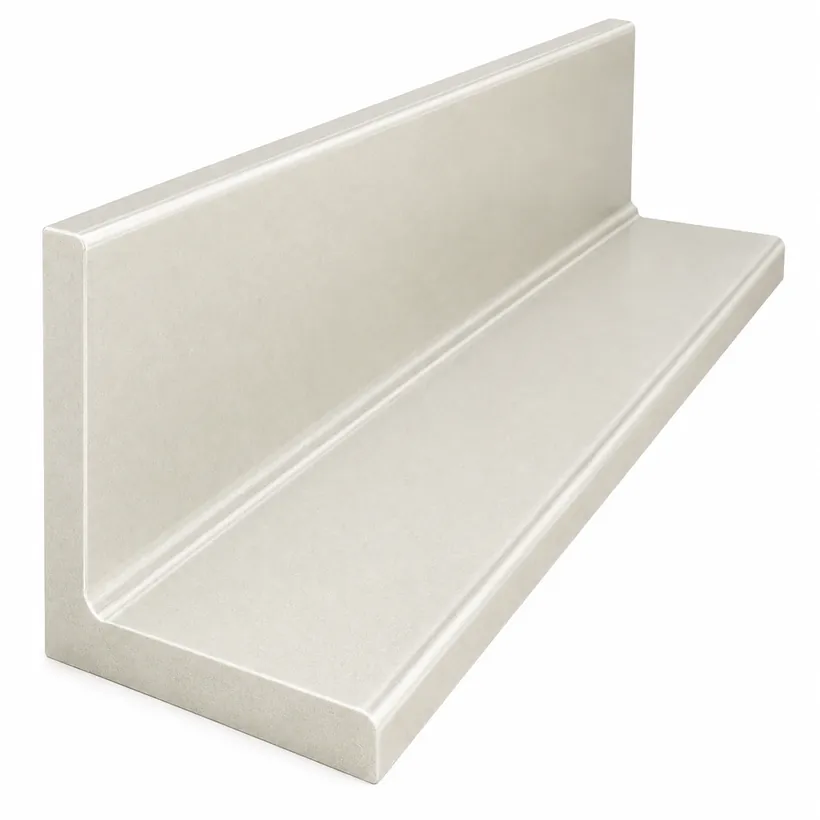
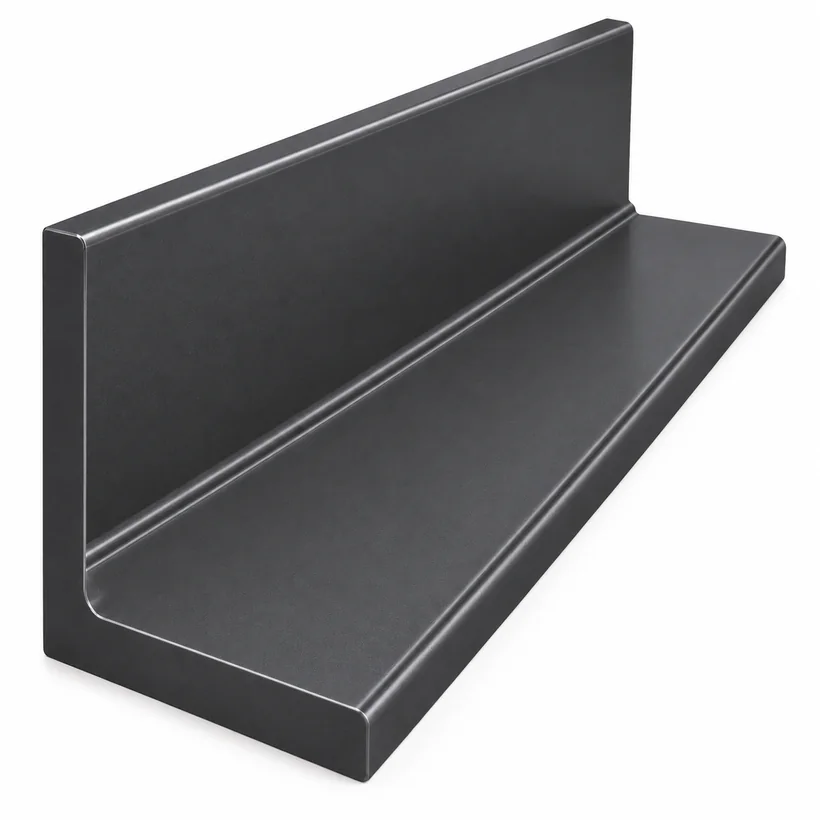
L-Angles: replace the white photos with dark ones (#96)
Swap the two white/light L-angle gallery images (single section and the
four-in-a-row "range of sizes") for the newly uploaded dark FRP L-angle
photos, matching the rest of the range. Update photo-2's "light finish"
caption to "L-angle section".

Claude-Session: https://claude.ai/code/session_01WRhyrTTY8cRs8Gze2oyhCj

diff --git a/index.html b/index.html
@@ -1531,7 +1531,7 @@
           <div class="sub">Photos</div>
           <div class="acc-photos">
             <figure><img decoding="async" src="images/langle-photo-1.webp" alt="FRP L-angle profile section"><figcaption>FRP L-angle profile</figcaption></figure>
-            <figure><img decoding="async" src="images/langle-photo-2.webp" alt="FRP L-angle, light finish"><figcaption>L-angle (light finish)</figcaption></figure>
+            <figure><img decoding="async" src="images/langle-photo-2.webp" alt="FRP L-angle section"><figcaption>L-angle section</figcaption></figure>
             <figure><img decoding="async" src="images/langle-photo-3.webp" alt="FRP L-angles in a range of sizes"><figcaption>Range of sizes</figcaption></figure>
             <figure><img decoding="async" src="images/langle-photo-4.webp" alt="Pair of FRP L-angle sections"><figcaption>L-angle pair</figcaption></figure>
             <figure><img decoding="async" src="images/langle-photo-5.webp" alt="Nested FRP L-angle sizes"><figcaption>Nested L-angle sizes</figcaption></figure>
